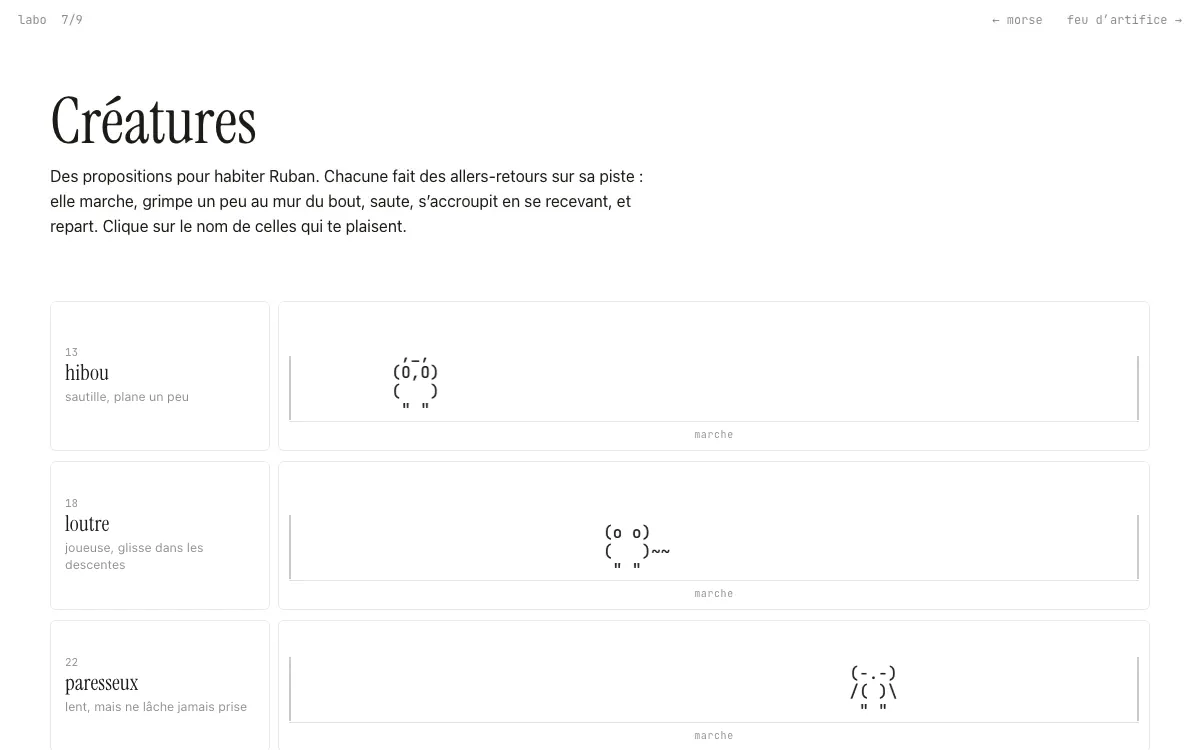
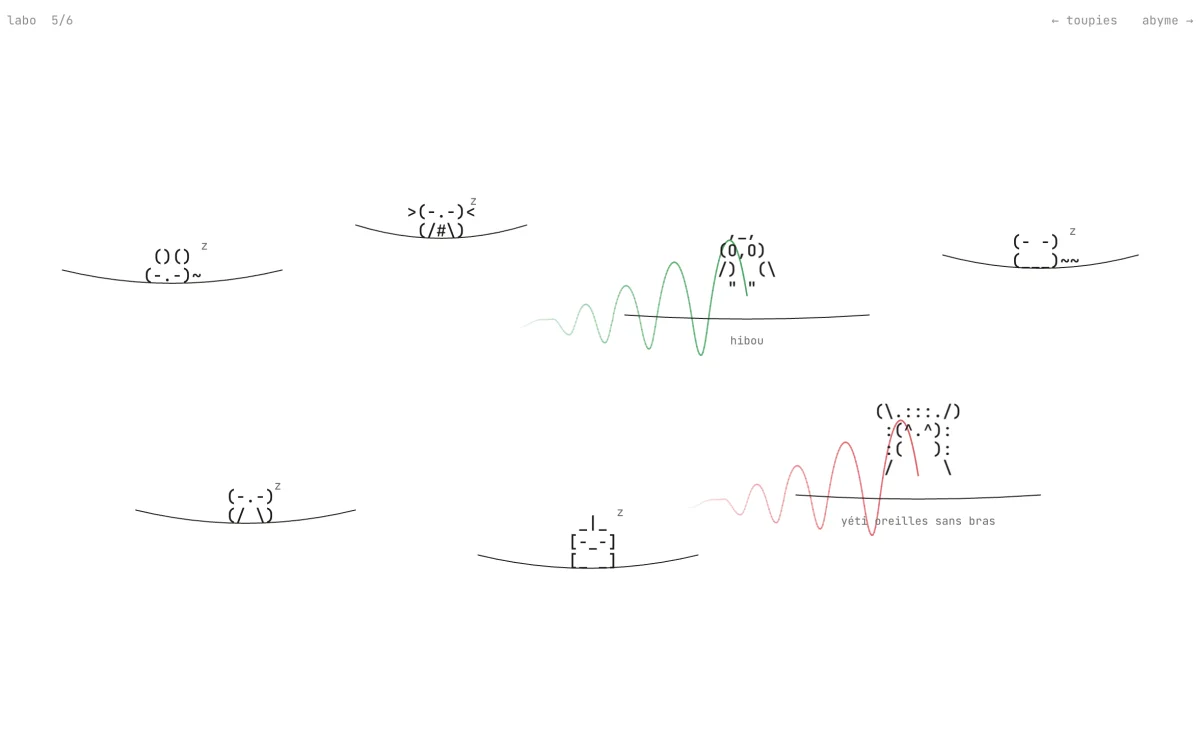
Labo : les captures des expériences, deux par ligne, en grand ; nouvelle capture de Créatures
- Le sommaire du labo devient une grille simple : deux captures par ligne, en grand, sans titre (leur nom pour les lecteurs d'écran) ; une bande blanche en haut, sous laquelle elles passent en défilant ; une par ligne sur téléphone.
- La capture de Créatures montre les cordes à linge (deux créatures réveillées, avec leur trace), et sa description suit.

diff --git a/src/features/carnet/sommaire.css b/src/features/carnet/sommaire.css
@@ -1,6 +1,6 @@
-/* ——— Le sommaire du labo (voir sommaire.ts) : une liste, sur la grille de l'accueil (cinq colonnes), en haut, à
-   la hauteur des cartes ; une ligne par expérience, sous un filet. En bas, « labo » sous son filet, à la place et à
-   la taille du nom de l'accueil ——— */
+/* ——— Le sommaire du labo (voir sommaire.ts) : les captures des expériences, deux par ligne, en grand, en haut à
+   la hauteur des cartes de l'accueil. En bas, « labo » sous son filet, à la place et à la taille du nom de
+   l'accueil ——— */
 @import '@/styles/base.css';
 
 :root {
@@ -10,8 +10,6 @@
   --head-h: 30px;
   --n: 5;
   --lh: calc(0.75 * (2 * (100vw - 2 * var(--pad) - (var(--n) - 1) * var(--pad)) / var(--n) + var(--pad)) / 6.75);
-  /* (un gris un peu plus clair que --muted, mais encore lisible à cette taille : les noms qu'on ne regarde pas) */
-  --faint: #949494;
   color-scheme: light;
   --carnet-ink: var(--muted);
   --carnet-ink-hover: var(--ink);
@@ -23,8 +21,10 @@
 /* en haut, comme sur l'accueil et les fiches : « ← hello, world. » à gauche, à la même place, à la même taille
    (plus fort que le style du carnet, chargé après : voir carnet.css) */
 .sm ~ .carnet {
-  padding: calc(var(--pad) + 5px) var(--pad);
+  /* (sur fond blanc, jusqu'au-dessus des captures : en défilant, elles passent dessous sans se mêler au texte) */
+  padding: calc(var(--pad) + 5px) var(--pad) 10px;
   font-size: 13px;
+  background: var(--bg);
 }
 .carnet-left a {
   color: var(--ink);
@@ -49,60 +49,30 @@ main.sm.carnet-sheet {
   color: var(--ink);
 }
 
-.sm-rows {
+.sm-grid {
+  display: grid;
+  grid-template-columns: 1fr 1fr;
+  gap: var(--pad);
   margin: 0;
-  /* (le haut de la liste : là où l'accueil range ses cartes, où la fiche pose sa capture) */
+  /* (le haut : là où l'accueil range ses cartes, où la fiche pose sa capture) */
   padding: calc(var(--pad) + var(--head-h)) var(--pad) 32px;
   list-style: none;
 }
-/* une ligne : le numéro et le nom sur les deux premières colonnes, la petite capture au bout de la dernière */
-.sm-row {
-  display: grid;
-  grid-template-columns: repeat(var(--n), 1fr);
-  column-gap: var(--pad);
-  align-items: center;
-  padding: 10px 0;
-  border-top: 1px solid var(--line);
-  color: var(--ink);
-  text-decoration: none;
-}
-.sm-rows li:last-child .sm-row {
-  border-bottom: 1px solid var(--line);
-}
-.sm-row:focus-visible {
-  outline: 2px solid var(--ink);
-  outline-offset: 2px;
-}
-.sm-label {
-  grid-column: span 2;
-  display: flex;
-  align-items: baseline;
-  gap: 10px;
-}
-.sm-n {
-  min-width: 2ch;
-  font: 12px/1 var(--mono);
-  color: var(--muted);
-}
-.sm-name {
-  font-family: var(--serif);
-  font-size: clamp(18px, 1.6vw, 24px);
-  line-height: 1.12;
-  transition: color 0.2s ease;
-}
-/* au survol d'une ligne, les autres noms pâlissent */
-.sm-rows:has(.sm-row:hover) .sm-row:not(:hover) .sm-name {
-  color: var(--faint);
-}
-.sm-row img {
-  grid-column: var(--n);
-  justify-self: end;
+/* une expérience : sa capture, en grand, sans titre ; elle ouvre l'expérience */
+.sm-grid a {
   display: block;
-  width: 72px;
+}
+.sm-grid a:focus-visible {
+  outline: 2px solid var(--ink);
+  outline-offset: 4px;
+}
+.sm-grid img {
+  display: block;
+  width: 100%;
   height: auto;
   aspect-ratio: 16 / 10;
   object-fit: cover;
-  border-radius: 2px;
+  border-radius: 4px;
   /* (un filet : les captures claires, Toupies, Abyme, ne se confondent pas avec la page) */
   outline: 1px solid var(--line);
   outline-offset: -1px;
@@ -151,17 +121,13 @@ main.sm.carnet-sheet {
   user-select: none;
 }
 
-/* écran étroit : le nom à gauche, la capture à droite, et « labo » en bas, comme le nom sur l'accueil */
+/* écran étroit : une capture par ligne, et « labo » en bas, comme le nom sur l'accueil */
+@media (max-width: 700px) {
+  .sm-grid {
+    grid-template-columns: 1fr;
+  }
+}
 @media (max-width: 900px) {
-  .sm-row {
-    grid-template-columns: 1fr 72px;
-  }
-  .sm-label {
-    grid-column: 1;
-  }
-  .sm-row img {
-    grid-column: 2;
-  }
   .sm-foot {
     margin-bottom: var(--pad);
     padding-top: 24px;

diff --git a/src/features/carnet/sommaire.ts b/src/features/carnet/sommaire.ts
@@ -3,23 +3,22 @@ import { carnet } from '@/content/content'
 import { BELLY, EARS, FEET, HEAD } from '@/features/yeti/art'
 import { mount } from './carnet'
 
-// Le sommaire du labo (/labo/, là où mène « labo → » de l'accueil) : une liste. Une ligne par expérience, sous un
-// filet : son numéro et son nom, une petite capture au bout ; toute la ligne ouvre l'expérience. En bas, comme le
-// nom sur l'accueil : « labo », sous son filet, et le yéti debout dessus, tout à droite.
+// Le sommaire du labo (/labo/, là où mène « labo → » de l'accueil) : les captures des expériences, deux par ligne,
+// en grand, sans titre (leur nom, pour les lecteurs d'écran) ; chacune ouvre son expérience. En bas, comme le nom
+// sur l'accueil : « labo », sous son filet, et le yéti debout dessus, tout à droite.
 
 const main = document.querySelector<HTMLElement>('.sm')!
 main.innerHTML = `
   <h1 class="sr">Labo</h1>
-  <ol class="sm-rows">${carnet.pages
+  <ul class="sm-grid">${carnet.pages
     .map(
-      (p, i) => `
-    <li><a class="sm-row" href="${p.href}">
-      <span class="sm-label"><span class="sm-n">${String(i + 1).padStart(2, '0')}</span><span class="sm-name">${p.name}</span></span>
+      (p) => `
+    <li><a href="${p.href}" aria-label="${p.name}">
       <img src="${p.src}" alt="${p.alt}" width="1200" height="750" decoding="async" />
     </a></li>`,
     )
     .join('')}
-  </ol>
+  </ul>
   <div class="sm-foot" aria-hidden="true"><span class="sm-word">labo</span><span class="sm-yeti">${[EARS, HEAD, BELLY, FEET]
     .map((l) => l.padEnd(9))
     .join('\n')}</span></div>`

diff --git a/src/content/content.ts b/src/content/content.ts
@@ -129,7 +129,7 @@ export const carnet: Carnet = {
       name: 'créatures',
       href: '/creatures/',
       src: '/shots/creatures.webp',
-      alt: 'Sur une page blanche, une planche de créatures dessinées en caractères, une par ligne (un ourson, un yéti, un robot…) : à gauche son numéro, son nom en serif et un mot sur elle ; à droite, sa piste entre deux petits murs, où elle marche, tantôt vers la droite, tantôt vers la gauche.',
+      alt: 'Sur une page blanche, des créatures dessinées en caractères dorment chacune sur son bout de ficelle, les yeux fermés, un petit z près de la tête ; deux sont réveillées, un hibou et un yéti : ils sautent sur leur ficelle et laissent derrière eux un trait de leur couleur, vert et rouge, qui garde la forme de leurs sauts.',
     },
     {
       name: 'abyme',

diff --git a/labo/index.html b/labo/index.html
@@ -15,7 +15,7 @@
     <link href="https://fonts.googleapis.com/css2?family=Inter+Tight:wght@300&family=Instrument+Serif&family=JetBrains+Mono:wght@400;500&display=swap" rel="stylesheet" />
   </head>
   <body>
-    <!-- le sommaire du labo : la liste des expériences, une ligne chacune (voir src/features/carnet/sommaire.ts) -->
+    <!-- le sommaire du labo : les captures des expériences, deux par ligne (voir src/features/carnet/sommaire.ts) -->
     <main class="sm carnet-sheet" aria-labelledby="sm-title"></main>
     <script type="module" src="/src/features/carnet/sommaire.ts"></script>
   </body>

diff --git a/README.md b/README.md
@@ -8,7 +8,7 @@ Deux effets cachés dans la signature, au survol : les « a » de Garance devien
 
 Easter egg : le repère « gap » de la grille est un bouton. Un clic mélange le nom en anagrammes ; le pied de page a un mode feu d'artifice.
 
-Dans le pied de page, « labo → » mène au **labo**, mes expériences : une page (`/labo`) en liste, une ligne par expérience (Murmuration, Ruban, Fourrure, Toupies, Créatures, Abyme ; Escalade, Feu d'artifice, Morse et Yaya existent toujours, sans lien), chacune sa propre page HTML (voir `vite.config.ts`).
+Dans le pied de page, « labo → » mène au **labo**, mes expériences : une page (`/labo`) de captures, deux par ligne (Murmuration, Ruban, Fourrure, Toupies, Créatures, Abyme ; Escalade, Feu d'artifice, Morse et Yaya existent toujours, sans lien), chacune sa propre page HTML (voir `vite.config.ts`).
 
 
 ## Lancer le projet
@@ -50,7 +50,7 @@ src/
     fireworks/                 le mode feu d'artifice : Fireworks (le spectacle), show + shells (étincelles),
                                fluid + gl + shaders (halo liquide), salvos, stars
     carnet/                    le carnet d'expériences : carnet (la ligne en haut, tourner la page), sheet (la
-                               feuille), sommaire (la page /labo, la liste), gear (les réglages), raster + photo (ASCII)
+                               feuille), sommaire (la page /labo, les captures), gear (les réglages), raster + photo (ASCII)
     murmuration/               la page /murmuration : main (boucle, gestes), draw, flock, grid, perches,
                                startle, pose, village, settings
     fourrure/                  la page /fourrure : un chat dans le noir, la souris pour lumière
